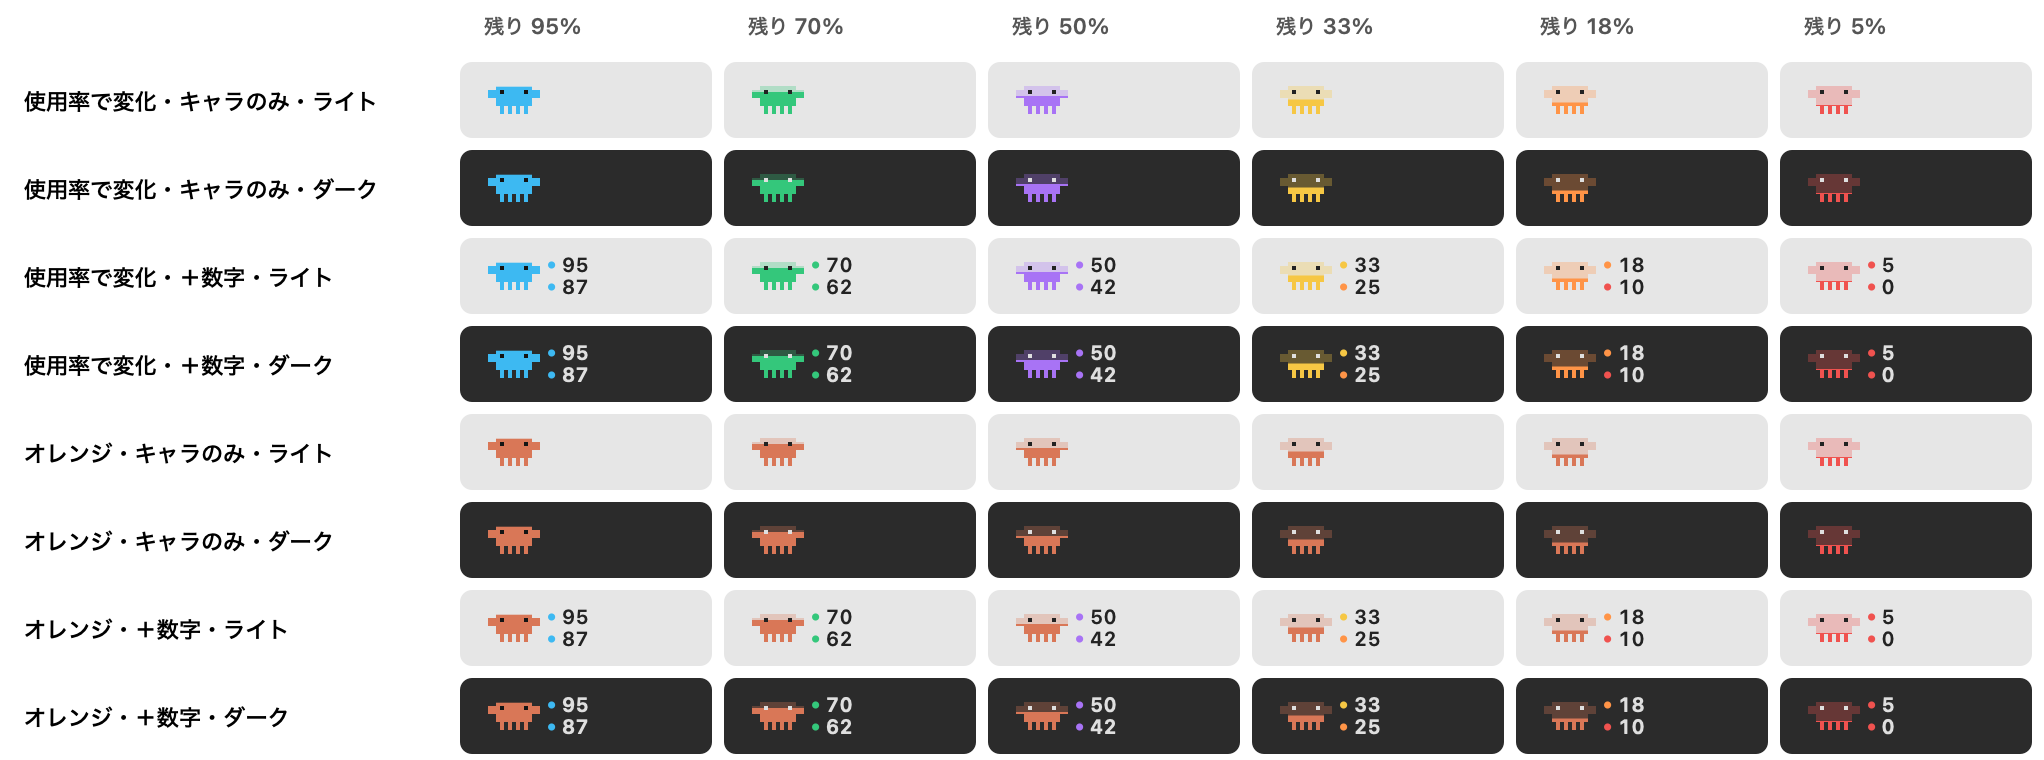
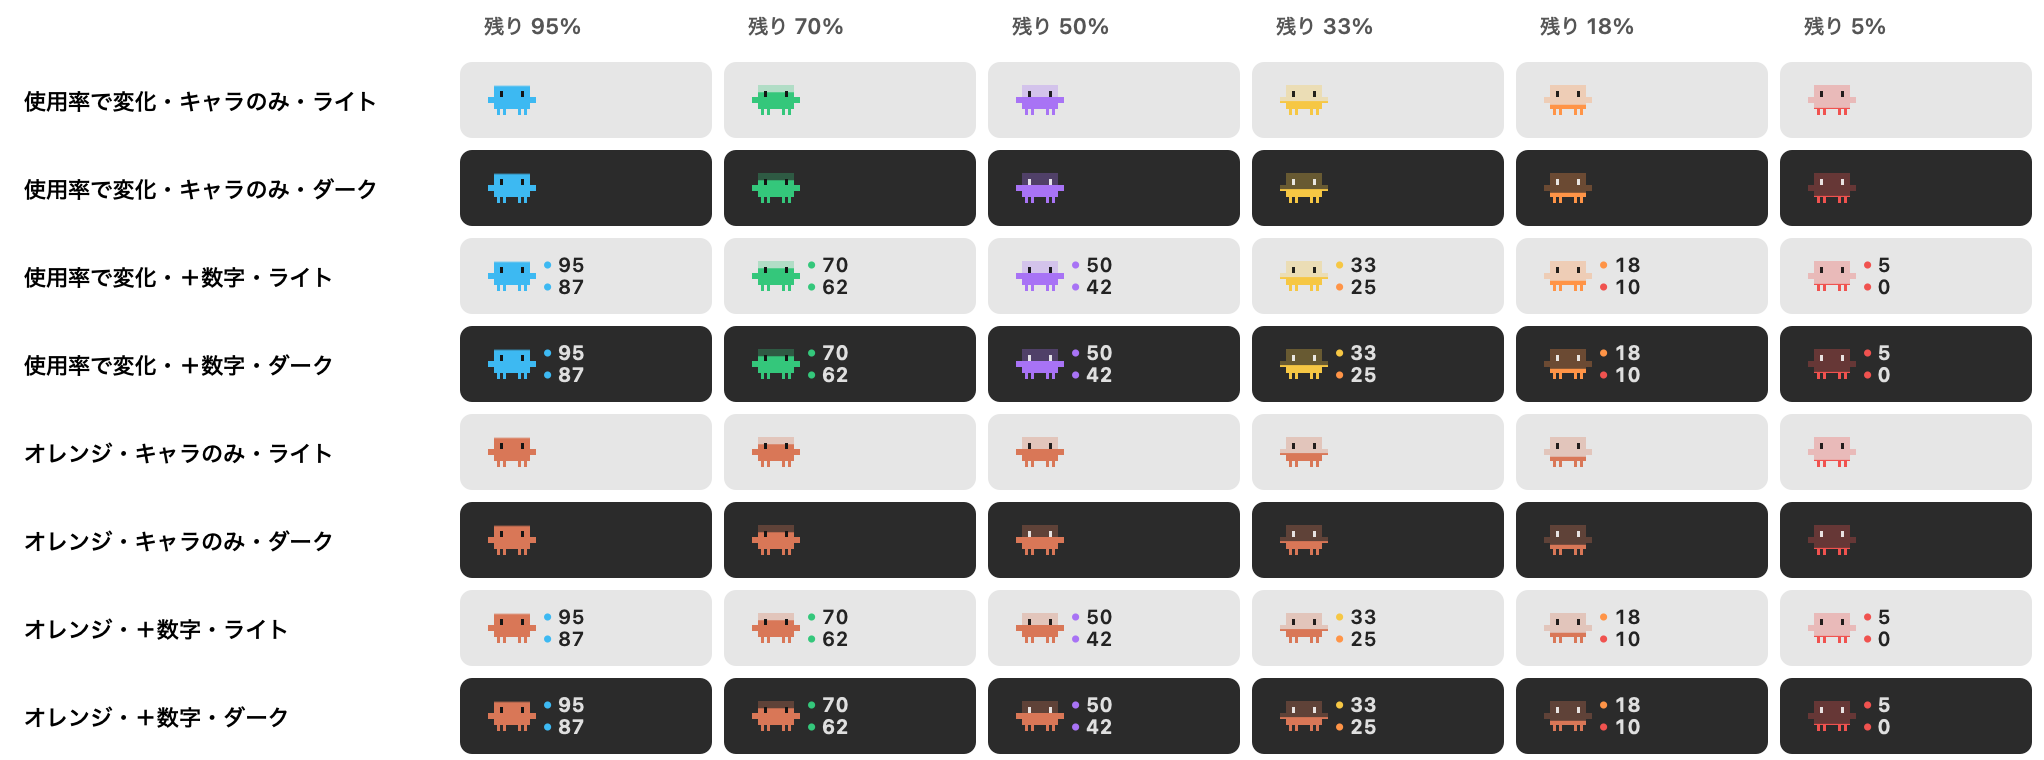
Refine Claude mascot silhouette and add subtle menu bar animation

diff --git a/Sources/Chrome.swift b/Sources/Chrome.swift
@@ -326,19 +326,39 @@ enum StatusIcon {
     // MARK: Pixel mascot
 
     /// Claude Code's pixel character: `#` body, `o` eye.
-    static let clawd = ["..#########..",
-                        "###o#####o###",
-                        "#############",
-                        "..#########..",
-                        "..#########..",
-                        "...#.#.#.#...",
-                        "...#.#.#.#..."]
-    static let cell: CGFloat = 2
+    static let clawd = ["..############..",
+                        "..############..",
+                        "..##o######o##..",
+                        "..##o######o##..",
+                        "################",
+                        "################",
+                        "..############..",
+                        "..############..",
+                        "...#.#....#.#...",
+                        "...#.#....#.#..."]
+    // Three device pixels per cell on Retina; the taller head fits the 22-point menu bar.
+    static let cell: CGFloat = 1.5
     static var characterSize: NSSize { NSSize(width: CGFloat(clawd[0].count) * cell, height: CGFloat(clawd.count) * cell) }
+
+    /// Integer-point motion keeps the pixel edges crisp at menu bar scale.
+    struct CharacterPose {
+        var lift: CGFloat = 0
+        var stepping = false
+        var eyesClosed = false
+
+        static let resting = CharacterPose()
+        static let blink = CharacterPose(eyesClosed: true)
+        static let loading: [CharacterPose] = [
+            .init(stepping: true), .init(lift: 1, stepping: true),
+            .init(lift: 2), .init(lift: 2), .init(lift: 1),
+            .resting, .init(stepping: true), .resting
+        ]
+    }
 
     /// Draws the character as a gauge: the legs always carry the colour, and the body fills
     /// bottom-up with `fraction` like a water level over a faint tint of the same colour.
-    static func drawCharacter(at o: NSPoint, fraction: Double, color: NSColor, dimmed: Bool) {
+    static func drawCharacter(at o: NSPoint, fraction: Double, color: NSColor, dimmed: Bool,
+                              pose: CharacterPose = .resting) {
         let rows = clawd.count, legRows = 2
         let bodyBottom = o.y + CGFloat(legRows) * cell
         let fillTop = bodyBottom + CGFloat(rows - legRows) * cell * CGFloat(min(max(fraction, 0), 1))
@@ -349,40 +369,41 @@ enum StatusIcon {
             let isLeg = r >= rows - legRows
             for (c, ch) in line.enumerated() where ch != "." {
                 let x = o.x + CGFloat(c) * cell
-                if ch == "o" {
-                    (y + cell / 2 < fillTop ? NSColor(white: 0.08, alpha: 1) : NSColor.labelColor.withAlphaComponent(0.85)).setFill()
-                    NSRect(x: x, y: y, width: cell, height: cell).fill(using: .sourceOver)
-                    continue
-                }
                 let split = isLeg ? cell : min(max(fillTop - y, 0), cell)
                 if split > 0 {
                     solid.setFill()
-                    NSRect(x: x, y: y, width: cell, height: split).fill(using: .sourceOver)
+                    let foot = pose.stepping && r == rows - 1 && (c == 3 || c == 10) ? CGFloat(1) : 0
+                    NSRect(x: x, y: y - foot, width: cell, height: split + foot).fill(using: .sourceOver)
                 }
                 if split < cell {
                     faint.setFill()
                     NSRect(x: x, y: y + split, width: cell, height: cell - split).fill(using: .sourceOver)
                 }
+                if ch == "o", !pose.eyesClosed || r == 3 {
+                    (y + cell / 2 < fillTop ? NSColor(white: 0.08, alpha: 1) : NSColor.labelColor.withAlphaComponent(0.85)).setFill()
+                    NSRect(x: x, y: y, width: cell,
+                           height: pose.eyesClosed ? 1 : cell).fill(using: .sourceOver)
+                }
             }
         }
     }
 
-    static func character(fraction: Double, color: NSColor, dimmed: Bool, frame: Int) -> NSImage {
+    static func character(fraction: Double, color: NSColor, dimmed: Bool, pose: CharacterPose = .resting) -> NSImage {
         let size = characterSize
-        return NSImage(size: NSSize(width: size.width, height: 18), flipped: false) { _ in
-            drawCharacter(at: NSPoint(x: 0, y: 2 + CGFloat(frame)), fraction: fraction, color: color, dimmed: dimmed)
+        return NSImage(size: NSSize(width: size.width, height: 22), flipped: false) { _ in
+            drawCharacter(at: NSPoint(x: 0, y: (22 - size.height) / 2 + pose.lift), fraction: fraction, color: color, dimmed: dimmed, pose: pose)
             return true
         }
     }
 
     /// The character followed by 5-hour and weekly figures in two lines.
-    static func characterNumbers(fraction: Double, color: NSColor, dimmed: Bool, frame: Int, rows: [Row]) -> NSImage {
+    static func characterNumbers(fraction: Double, color: NSColor, dimmed: Bool, pose: CharacterPose = .resting, rows: [Row]) -> NSImage {
         let attrs: [NSAttributedString.Key: Any] = [.font: NSFont.monospacedDigitSystemFont(ofSize: 10, weight: .semibold)]
         let textW = rows.map { ceil(($0.text as NSString).size(withAttributes: attrs).width) }.max() ?? 0
         let size = characterSize, h: CGFloat = 22, gap: CGFloat = 4, dot: CGFloat = 6
         let w = size.width + gap + dot + textW + 1
         return NSImage(size: NSSize(width: w, height: h), flipped: false) { _ in
-            drawCharacter(at: NSPoint(x: 0, y: (h - size.height) / 2 + CGFloat(frame)), fraction: fraction, color: color, dimmed: dimmed)
+            drawCharacter(at: NSPoint(x: 0, y: (h - size.height) / 2 + pose.lift), fraction: fraction, color: color, dimmed: dimmed, pose: pose)
             let rowH = h / CGFloat(rows.count)
             for (i, r) in rows.enumerated() {
                 let cy = h - rowH * (CGFloat(i) + 0.5)
@@ -407,7 +428,7 @@ enum StatusIcon {
     /// Builds the status item image for the chosen style.
     @MainActor
     static func image(for states: [ProviderState], style: MenuBarMode, display: DisplayMode,
-                      characterColor: CharacterColor = .level, frame: Int = 0) -> NSImage {
+                      characterColor: CharacterColor = .level, pose: CharacterPose = .resting) -> NSImage {
         let single = states.count == 1
         func dimmed(_ p: ProviderState) -> Bool { p.snapshot == nil || (p.error != nil && !p.softError) }
         func row(_ p: ProviderState, _ m: Metric) -> Row {
@@ -423,9 +444,9 @@ enum StatusIcon {
             let m = p.fiveHour
             let tint = characterTint(m, characterColor)
             if style == .character {
-                return character(fraction: m.fraction(display), color: tint, dimmed: dimmed(p), frame: frame)
+                return character(fraction: m.fraction(display), color: tint, dimmed: dimmed(p), pose: pose)
             }
-            return characterNumbers(fraction: m.fraction(display), color: tint, dimmed: dimmed(p), frame: frame,
+            return characterNumbers(fraction: m.fraction(display), color: tint, dimmed: dimmed(p), pose: pose,
                                     rows: [row(p, p.fiveHour), row(p, p.weekly)])
         case .bars:
             return bars(rows, leading: single ? states[0].provider : nil)
@@ -473,28 +494,44 @@ final class StatusController: NSObject, NSMenuDelegate {
         menu.delegate = self
         item.menu = menu
         item.button?.imagePosition = .imageOnly
+        NSWorkspace.shared.notificationCenter.addObserver(self, selector: #selector(accessibilityChanged),
+            name: NSWorkspace.accessibilityDisplayOptionsDidChangeNotification, object: nil)
         update()
     }
 
-    private var hopTimer: Timer?
-    private var frame = 0
+    private enum Activity { case still, idle, loading }
+    private var activity = Activity.still
+    private var animationTimer: Timer?
+    private var animationStep = 0
+    private var pose = StatusIcon.CharacterPose.resting
+
+    deinit {
+        animationTimer?.invalidate()
+        NSWorkspace.shared.notificationCenter.removeObserver(self)
+    }
+
+    @objc private func accessibilityChanged(_ notification: Notification) { update() }
 
     func update() {
         let states = store.states(settings, providers: settings.menuBarProviders)
-        // The character hops while its numbers are being fetched.
-        let hopping = settings.menuBarMode.isCharacter && states.contains { $0.loading }
-        if hopping, hopTimer == nil {
-            hopTimer = Timer.scheduledTimer(withTimeInterval: 0.16, repeats: true) { [weak self] _ in
-                Task { @MainActor in
-                    guard let self else { return }
-                    self.frame ^= 1
-                    self.render()
-                }
-            }
-        } else if !hopping {
-            hopTimer?.invalidate()
-            hopTimer = nil
-            frame = 0
+        let claude = states.first { $0.provider == .claude }
+        let next: Activity
+        if !settings.menuBarMode.isCharacter || NSWorkspace.shared.accessibilityDisplayShouldReduceMotion {
+            next = .still
+        } else if claude?.loading == true {
+            next = .loading
+        } else if let claude, claude.snapshot != nil, claude.error == nil || claude.softError {
+            next = .idle
+        } else {
+            next = .still
+        }
+        if next != activity {
+            animationTimer?.invalidate()
+            animationTimer = nil
+            activity = next
+            animationStep = 0
+            pose = .resting
+            scheduleAnimation()
         }
         render()
         item.button?.toolTip = store.states(settings, providers: settings.activeProviders).map { p in
@@ -502,11 +539,37 @@ final class StatusController: NSObject, NSMenuDelegate {
         }.joined(separator: "\n")
     }
 
+    /// One-shot idle timers avoid continuous redraws between the occasional blinks.
+    private func scheduleAnimation() {
+        guard activity != .still else { return }
+        let delay: TimeInterval = activity == .loading ? 0.12 : (pose.eyesClosed ? 0.14 : 7)
+        let timer = Timer(timeInterval: delay, repeats: false) { [weak self] timer in
+            Task { @MainActor in
+                guard let self, self.animationTimer === timer else { return }
+                self.animationTimer = nil
+                switch self.activity {
+                case .loading:
+                    self.pose = StatusIcon.CharacterPose.loading[self.animationStep]
+                    self.animationStep = (self.animationStep + 1) % StatusIcon.CharacterPose.loading.count
+                case .idle:
+                    self.pose = self.pose.eyesClosed ? .resting : .blink
+                case .still:
+                    return
+                }
+                self.render()
+                self.scheduleAnimation()
+            }
+        }
+        timer.tolerance = delay > 1 ? 0.5 : 0.01
+        animationTimer = timer
+        RunLoop.main.add(timer, forMode: .common)
+    }
+
     private func render() {
         guard let button = item.button else { return }
         let states = store.states(settings, providers: settings.menuBarProviders)
         button.image = StatusIcon.image(for: states, style: settings.menuBarMode, display: settings.displayMode,
-                                        characterColor: settings.characterColor, frame: frame)
+                                        characterColor: settings.characterColor, pose: pose)
         button.title = ""
     }
 
@@ -669,6 +732,7 @@ enum Main {
         if args.count >= 2, args[1] == "--test-cli" { DevTools.testCLIRefresh(); return }
         if args.count >= 3, args[1] == "--menubar" { DevTools.renderMenuBarStyles(to: args[2]); return }
         if args.count >= 3, args[1] == "--character" { DevTools.renderCharacter(to: args[2]); return }
+        if args.count >= 3, args[1] == "--character-animation" { DevTools.renderCharacterAnimation(to: args[2]); return }
 
         let app = NSApplication.shared
         let delegate = AppDelegate()

diff --git a/Sources/DevTools.swift b/Sources/DevTools.swift
@@ -1,5 +1,6 @@
 import AppKit
 import SwiftUI
+import ImageIO
 
 /// Build-time helpers: `--icon <dir>` writes the iconset, `--render <dir>` writes card previews,
 /// `--dump` fetches once and prints the numbers (never the token), `--test-cli` exercises the token refresh.
@@ -173,6 +174,58 @@ enum DevTools {
         }
         NSGraphicsContext.restoreGraphicsState()
         try? rep.representation(using: .png, properties: [:])?.write(to: URL(fileURLWithPath: path))
+    }
+
+    /// Deterministic animation previews, without fetching usage or changing preferences.
+    static func renderCharacterAnimation(to dir: String) {
+        let url = URL(fileURLWithPath: dir)
+        try? FileManager.default.createDirectory(at: url, withIntermediateDirectories: true)
+        let st = ProviderState(provider: .claude, snapshot: sample(.claude, five: 40, week: 60),
+                               error: nil, loading: false, stale: false, now: Date(),
+                               mode: .remaining, colorMode: .level)
+        let poses = [StatusIcon.CharacterPose.resting, .blink] + StatusIcon.CharacterPose.loading
+        let size = NSSize(width: 500, height: 68)
+        var frames: [CGImage] = []
+        for (index, pose) in poses.enumerated() {
+            guard let rep = NSBitmapImageRep(bitmapDataPlanes: nil, pixelsWide: Int(size.width * 2), pixelsHigh: Int(size.height * 2),
+                                             bitsPerSample: 8, samplesPerPixel: 4, hasAlpha: true, isPlanar: false,
+                                             colorSpaceName: .deviceRGB, bytesPerRow: 0, bitsPerPixel: 0) else { return }
+            rep.size = size
+            NSGraphicsContext.saveGraphicsState()
+            NSGraphicsContext.current = NSGraphicsContext(bitmapImageRep: rep)
+            var column = 0
+            for appearance in [NSAppearance.Name.aqua, .darkAqua] {
+                for style in [MenuBarMode.character, .characterNumbers] {
+                    NSAppearance(named: appearance)!.performAsCurrentDrawingAppearance {
+                        let x = CGFloat(column) * 125
+                        (appearance == .aqua ? NSColor(white: 0.9, alpha: 1) : NSColor(white: 0.17, alpha: 1)).setFill()
+                        NSRect(x: x, y: 0, width: 125, height: size.height).fill()
+                        let title = "\(appearance == .aqua ? "ライト" : "ダーク")・\(style == .character ? "キャラ" : "＋数字")"
+                        (title as NSString).draw(at: NSPoint(x: x + 12, y: 46), withAttributes: [
+                            .font: NSFont.systemFont(ofSize: 11), .foregroundColor: NSColor.labelColor])
+                        let img = StatusIcon.image(for: [st], style: style, display: .remaining,
+                                                   characterColor: .claude, pose: pose)
+                        img.draw(in: NSRect(x: x + 16, y: 12, width: img.size.width, height: img.size.height))
+                    }
+                    column += 1
+                }
+            }
+            NSGraphicsContext.restoreGraphicsState()
+            try? rep.representation(using: .png, properties: [:])?.write(to: url.appendingPathComponent("frame-\(index).png"))
+            if let image = rep.cgImage { frames.append(image) }
+        }
+        // Pause, blink, then show three fetch cycles. Runtime idle uses a seven-second pause.
+        let sequence: [(Int, Double)] = [(0, 2), (1, 0.14), (0, 1)]
+            + (0..<24).map { (2 + $0 % 8, 0.12) } + [(0, 1)]
+        guard frames.count == poses.count,
+              let destination = CGImageDestinationCreateWithURL(url.appendingPathComponent("animation.gif") as CFURL,
+                  "com.compuserve.gif" as CFString, sequence.count, nil) else { return }
+        CGImageDestinationSetProperties(destination, [kCGImagePropertyGIFDictionary: [kCGImagePropertyGIFLoopCount: 0]] as CFDictionary)
+        for (index, delay) in sequence {
+            CGImageDestinationAddImage(destination, frames[index],
+                [kCGImagePropertyGIFDictionary: [kCGImagePropertyGIFDelayTime: delay]] as CFDictionary)
+        }
+        if !CGImageDestinationFinalize(destination) { print("Could not write animation preview") }
     }
 
     static func dump() {

diff --git a/README.md b/README.md
@@ -50,12 +50,16 @@ cd claude-codex-usage
 
 右クリック →「メニューバー」から選べます。
 
-- **キャラクター**: Claude Code のピクセルキャラクターが、5時間の残量に応じて下から満ちていきます（脚は常に色つき、体が水位のように変化）。更新中はぴょこぴょこ跳ねます
+- **キャラクター**: Claude Code のピクセルキャラクターが、5時間の残量に応じて下から満ちていきます（脚は常に色つき、体が水位のように変化）。頭と縦長の目、腕、4本の脚をキャラクターの輪郭に合わせています。待機中は約7秒おきにまばたきし、Claude の使用量を更新中は小さく跳ねながら足踏みします
 - **キャラクター ＋ 2段の数字**: 上の段が5時間、下の段が週間
 - **リングのみ／ミニバー／2段の数字**: コンパクト表示
 - **リング ＋ %／いちばん余裕のない1つだけ** など
 
 キャラクター系のスタイルは常に Claude を表示します。Codex はメニューを開いたときのカードで確認できます。キャラクターの色は「使用率で変化（水色 → 緑 → 紫 → 黄 → 橙 → 赤）」と「Claude オレンジ」から選べます。
+
+macOS の「視差効果を減らす」が有効なときは、まばたき・跳躍・足踏みを止めて静止表示します。数値はアニメーション中も同じ位置に表示します。
+
+![まばたきと更新中の跳躍・足踏み（プレビューでは待機時間を短縮）](docs/character-animation.gif)
 
 ## 色の意味（既定の「使用率で変化」の場合）
 
@@ -107,6 +111,12 @@ Xcode は不要です（Command Line Tools だけでビルドできます）。
 
 ```bash
 ./build.sh install   # ビルド → ~/Applications にコピー → 起動
+```
+
+キャラクターの各コマは、ネットワークに接続せずに確認できます。
+
+```bash
+build/ClaudeCodexUsage.app/Contents/MacOS/ClaudeCodexUsage --character-animation build/animation-preview
 ```
 
 ## アンインストール
